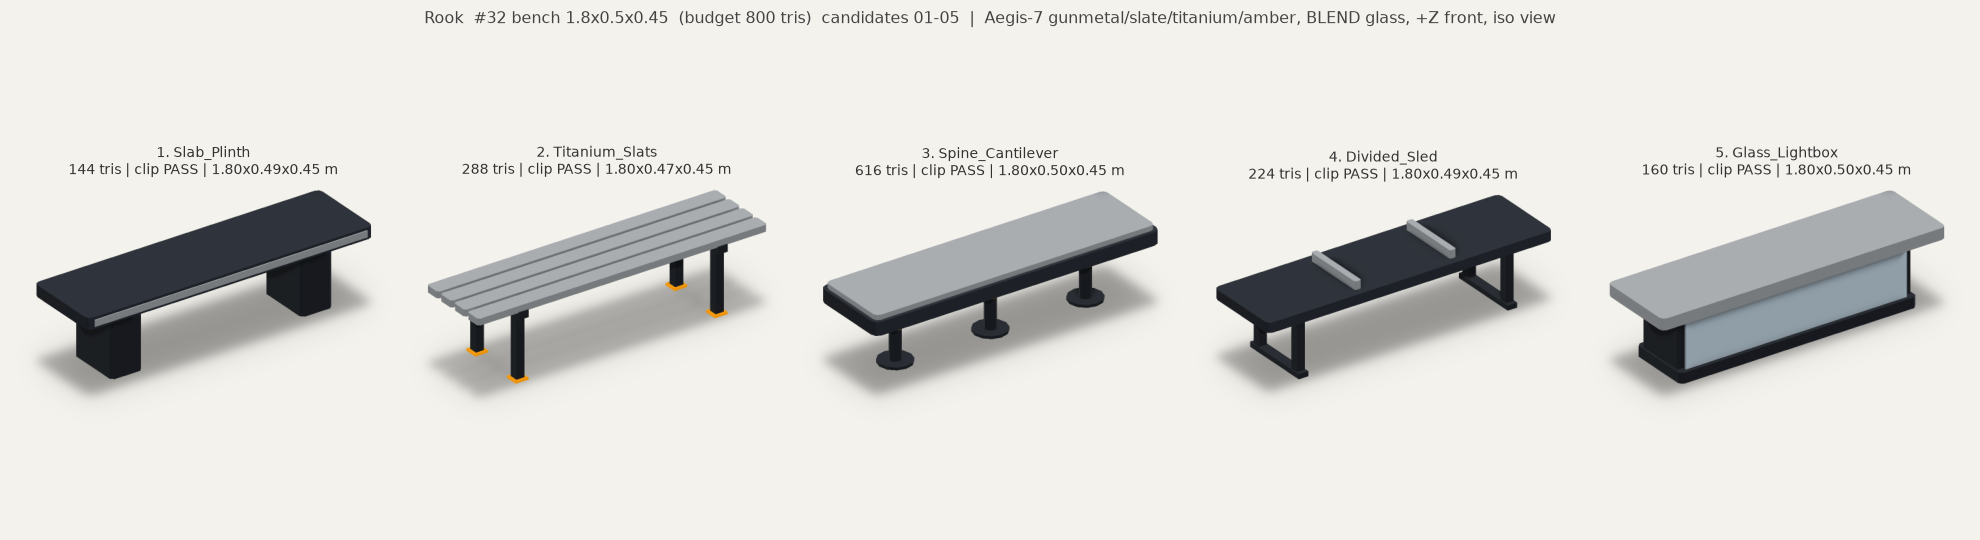
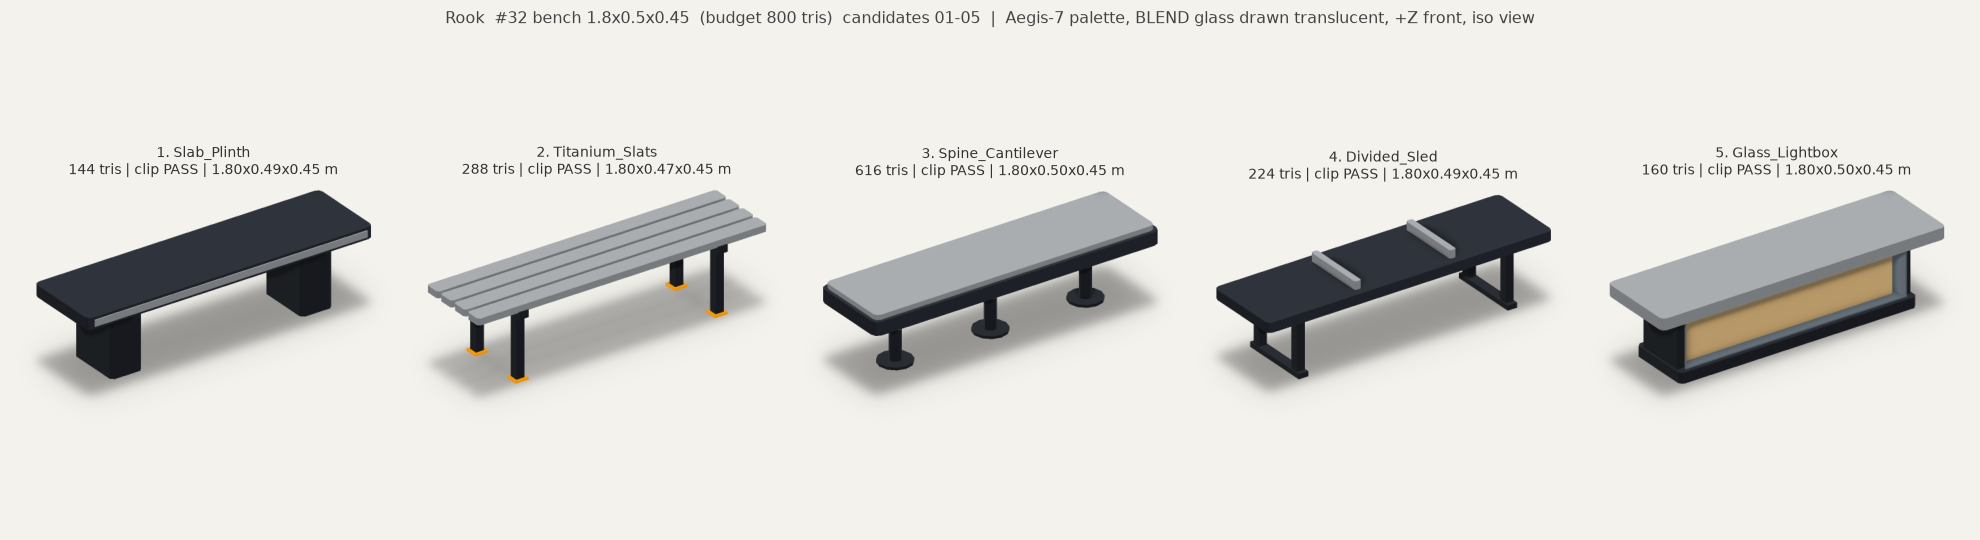
Rook: contact-sheet renderer draws BLEND glass translucent (render_view glass_alpha opt-in, default unchanged for older generators); re-rendered 11 ext_* sheets, GLBs unchanged

Changed region(s): [[0.2157, 0.0, 0.801, 0.0593], [0.8318, 0.4741, 0.9859, 0.6815]]

diff --git a/assets/src/dining_chair_generator.py b/assets/src/dining_chair_generator.py
@@ -349,7 +349,8 @@ def export_final(P, paths):
     return tot, geo
 
 # ---------- soft-shaded numpy rasterizer ----------
-def render_view(geo, R, size=520, ss=2, shadow=True):
+def render_view(geo, R, size=520, ss=2, shadow=True, glass_alpha=None):
+    """glass_alpha (e.g. 0.35): draw materials with baseColor alpha < 1 in a second, depth-tested but blended pass (translucent BLEND glass)."""
     from scipy.ndimage import gaussian_filter
     S = size*ss; bg = np.array([0.955, 0.948, 0.925])
     allV = np.vstack([v for _, v, _, _ in geo.values()]) @ R.T
@@ -376,7 +377,11 @@ def render_view(geo, R, size=520, ss=2, shadow=True):
     rim = np.array([0.1, 0.4, -0.9]); rim /= np.linalg.norm(rim)
     view = R.T @ np.array([0, 0, 1.0])   # direction to camera in world
     occ = np.zeros((S, S))
-    for name, (mk, V, N, F) in geo.items():
+    _items = list(geo.items())
+    if glass_alpha is not None:
+        _items = [it for it in _items if _col(FMAT[it[1][0]].baseColorFactor)[3] >= 1] + [it for it in _items if _col(FMAT[it[1][0]].baseColorFactor)[3] < 1]
+    for name, (mk, V, N, F) in _items:
+        _blend = glass_alpha is not None and _col(FMAT[mk].baseColorFactor)[3] < 1
         pm = FMAT[mk]; base = np.array(_col(pm.baseColorFactor)[:3]); met = pm.metallicFactor; rough = pm.roughnessFactor
         em = np.array(_col(pm.emissiveFactor if pm.emissiveFactor is not None else [0, 0, 0]))
         Pv = V @ R.T; p = to_px(Pv); z = Pv[:, 2]
@@ -409,7 +414,9 @@ def render_view(geo, R, size=520, ss=2, shadow=True):
             env = (0.35 + 0.45*hemi)[:, None]*(spec_col if met > .5 else 0)  # cheap env for metal
             col = dif_col*(0.25*hemi[:, None] + 0.8*dk[:, None] + 0.3*df[:, None]) \
                 + env + spec[:, None]*np.maximum(spec_col, 0.25) + 0.25*rimt[:, None] + fres[:, None]*0.08 + em*0.9
-            subi = img[y0:y1+1, x0:x1+1]; subi[upd] = col; sub[upd] = zz[upd]
+            subi = img[y0:y1+1, x0:x1+1]
+            if _blend: subi[upd] = subi[upd]*(1-glass_alpha) + col*glass_alpha; continue
+            subi[upd] = col; sub[upd] = zz[upd]
     # screen-space AO from depth
     fg = zb > -1e8
     zf = np.where(fg, zb, np.nan); zfill = np.where(fg, zb, zb[fg].min() if fg.any() else 0)

diff --git a/assets/src/ext_street_furniture_generator.py b/assets/src/ext_street_furniture_generator.py
@@ -157,14 +157,14 @@ def build(key):
         rep.append(r); print(json.dumps(r))
         saved = {k: FMAT[k] for k in (A,)}; em = FMAT[A]
         FMAT[A] = _PBR(name=em.name, baseColorFactor=(0, 0, 0, 1), metallicFactor=0, roughnessFactor=1, emissiveFactor=(1.0, .58, 0.0))
-        im = crop(render_view(geo, iso, size=600, shadow=True))
+        im = crop(render_view(geo, iso, size=600, shadow=True, glass_alpha=.35))
         if key in HEAD: heads.append(crop(render_view(headgeo(geo, HEAD[key]), iso, size=600, shadow=False)))
         FMAT.update(saved)
         tiles.append((f"{v}. {nm}\n{tris} tris | clip {'PASS' if chk['pass'] else 'FAIL'} | {chk['size'][0]:.2f}x{chk['size'][2]:.2f}x{chk['size'][1]:.2f} m", im))
     nr = 2 if heads else 1; fig, axs = plt.subplots(nr, 5, figsize=(22, 6 * nr), facecolor="#F4F2EC", squeeze=False)
     for ax, (t, im) in zip(axs[0], tiles): ax.imshow(im); ax.axis("off"); ax.set_title(t, fontsize=11, color="#333")
     for k, (ax, im) in enumerate(zip(axs[-1], heads) if heads else [], 1): ax.imshow(im); ax.axis("off"); ax.set_title(f"{k}. head close-up (y >= {HEAD[key]} m)", fontsize=11, color="#333")
-    fig.suptitle(f"Rook  {title}  (budget {budget} tris)  candidates 01-05  |  Aegis-7 gunmetal/slate/titanium/amber, BLEND glass, +Z front, iso view", fontsize=13, color="#444")
+    fig.suptitle(f"Rook  {title}  (budget {budget} tris)  candidates 01-05  |  Aegis-7 palette, BLEND glass drawn translucent, +Z front, iso view", fontsize=13, color="#444")
     plt.tight_layout(rect=(0, 0, 1, .93 if nr == 1 else .96)); sp = os.path.join(out, f"{name}_contact_sheet.png"); fig.savefig(sp, dpi=90, facecolor="#F4F2EC"); plt.close(fig)
     json.dump(rep, open(os.path.join(out, f"{name}_report.json"), "w"), indent=1); print("sheet", sp); return rep
 
